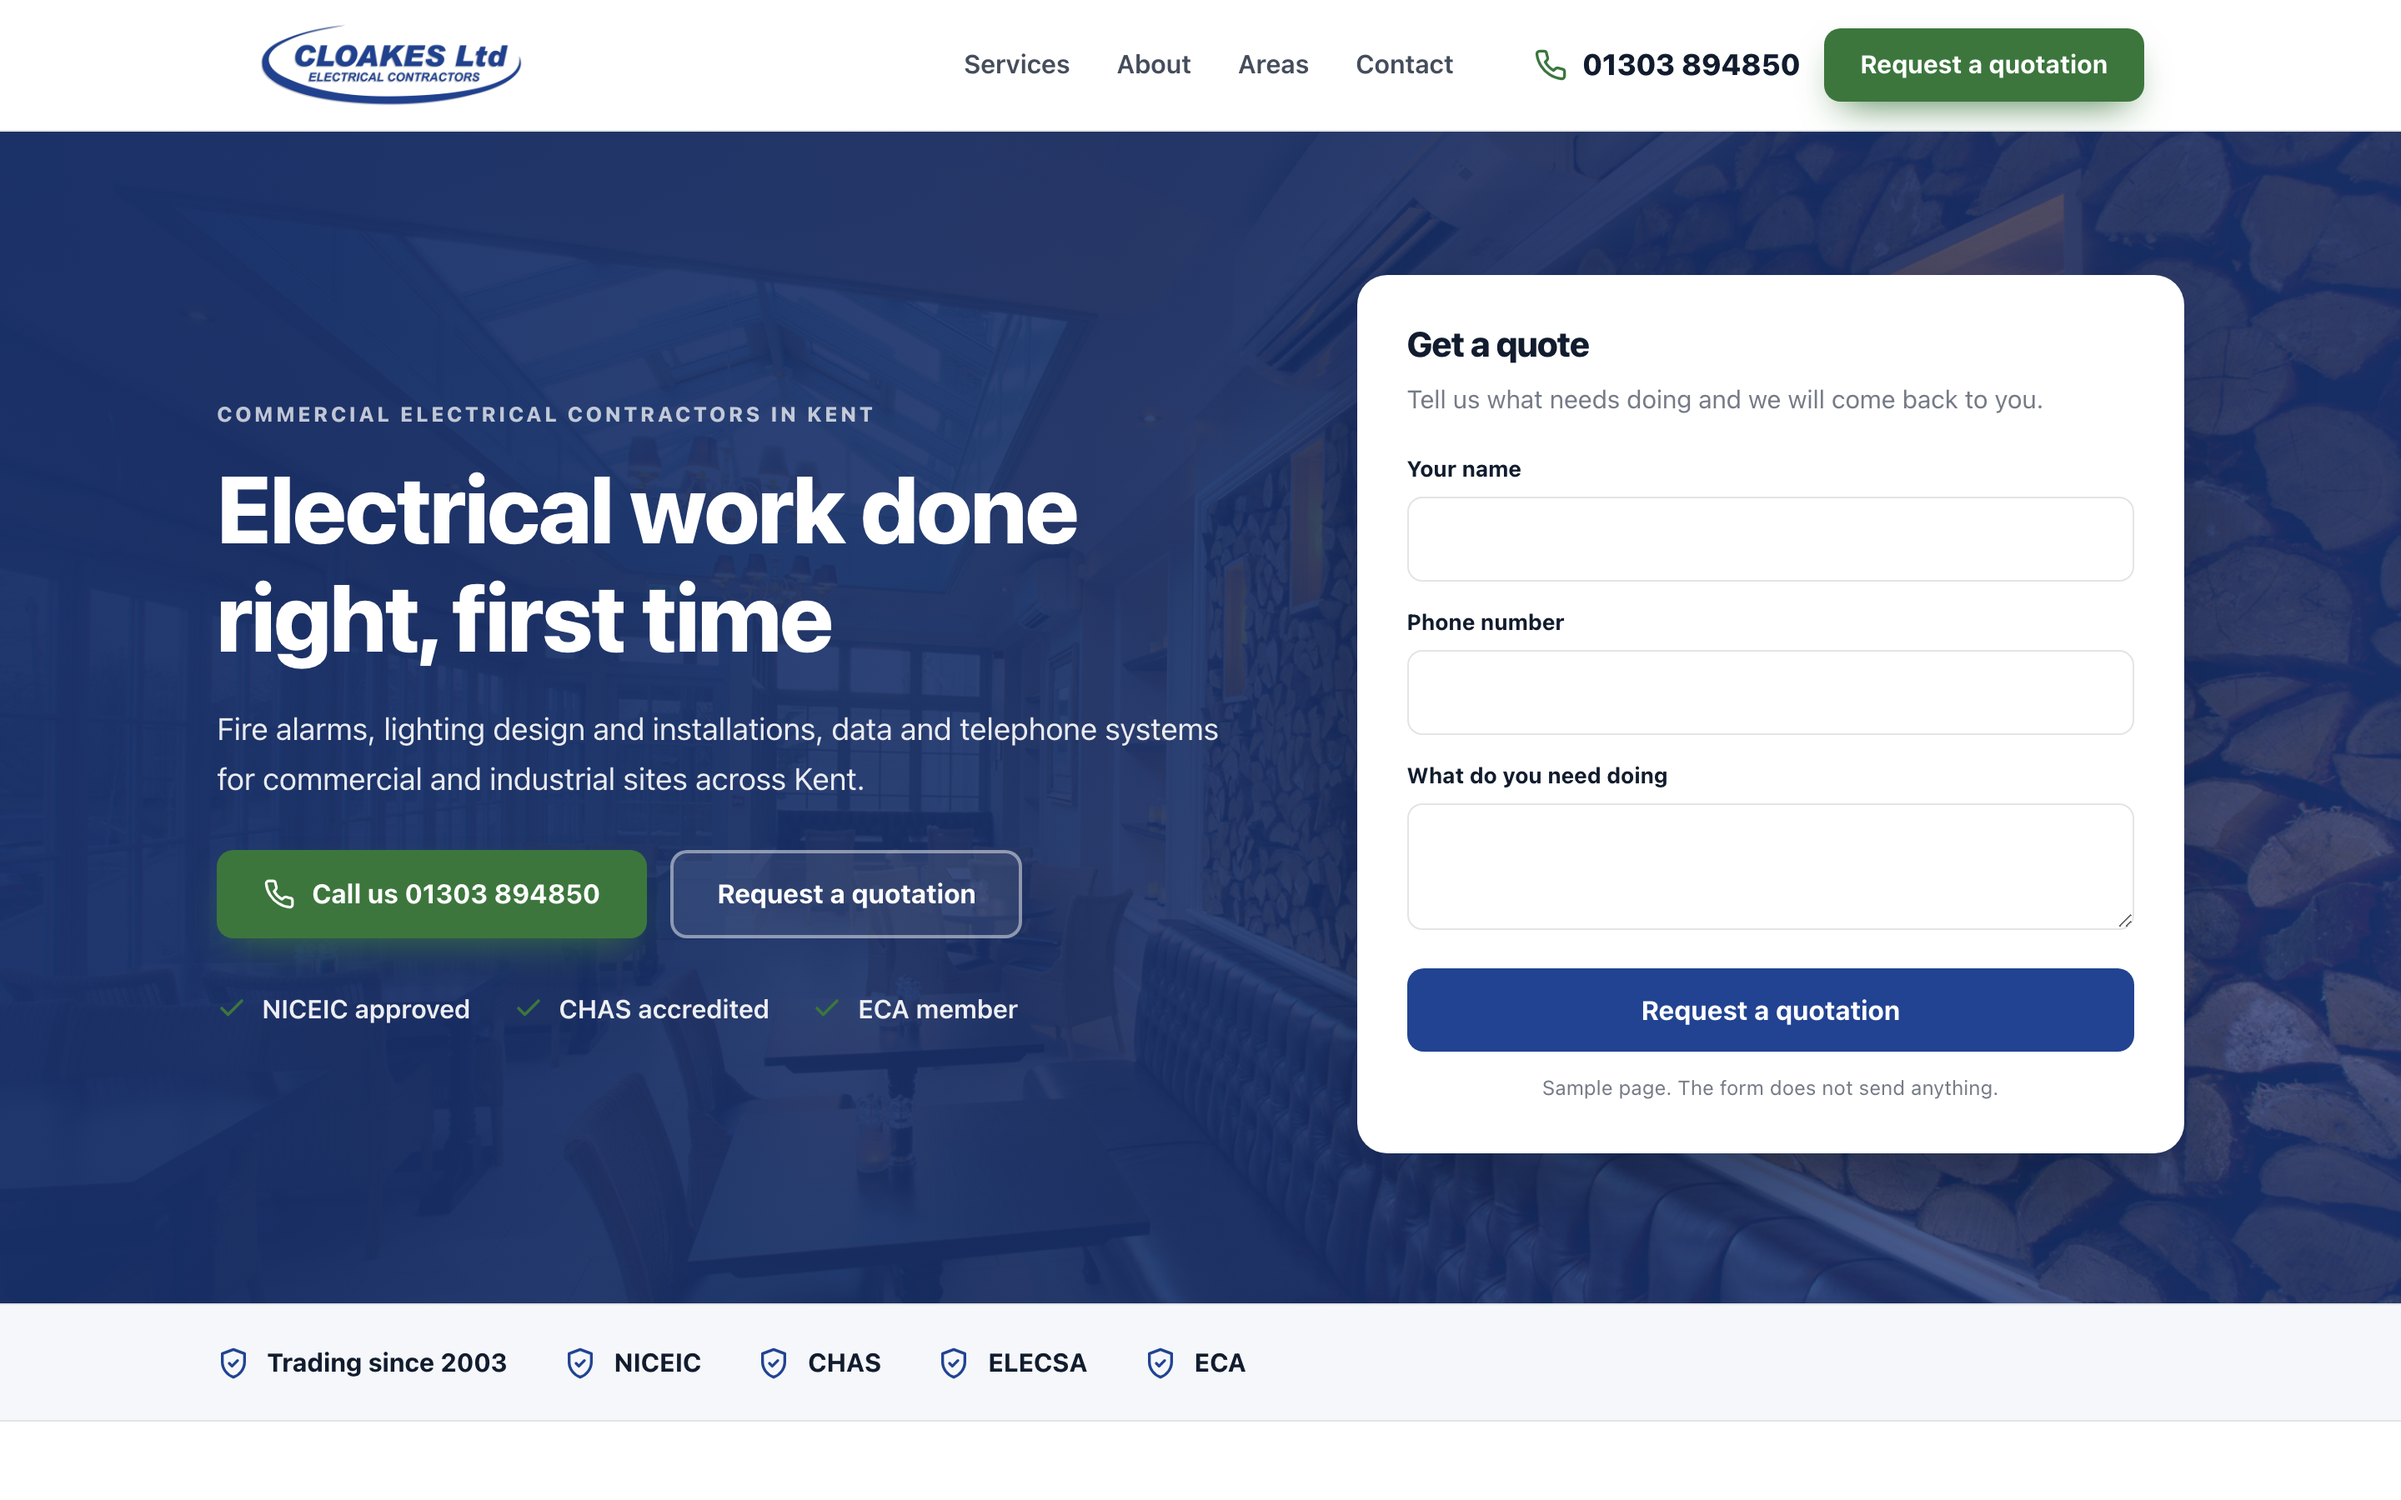
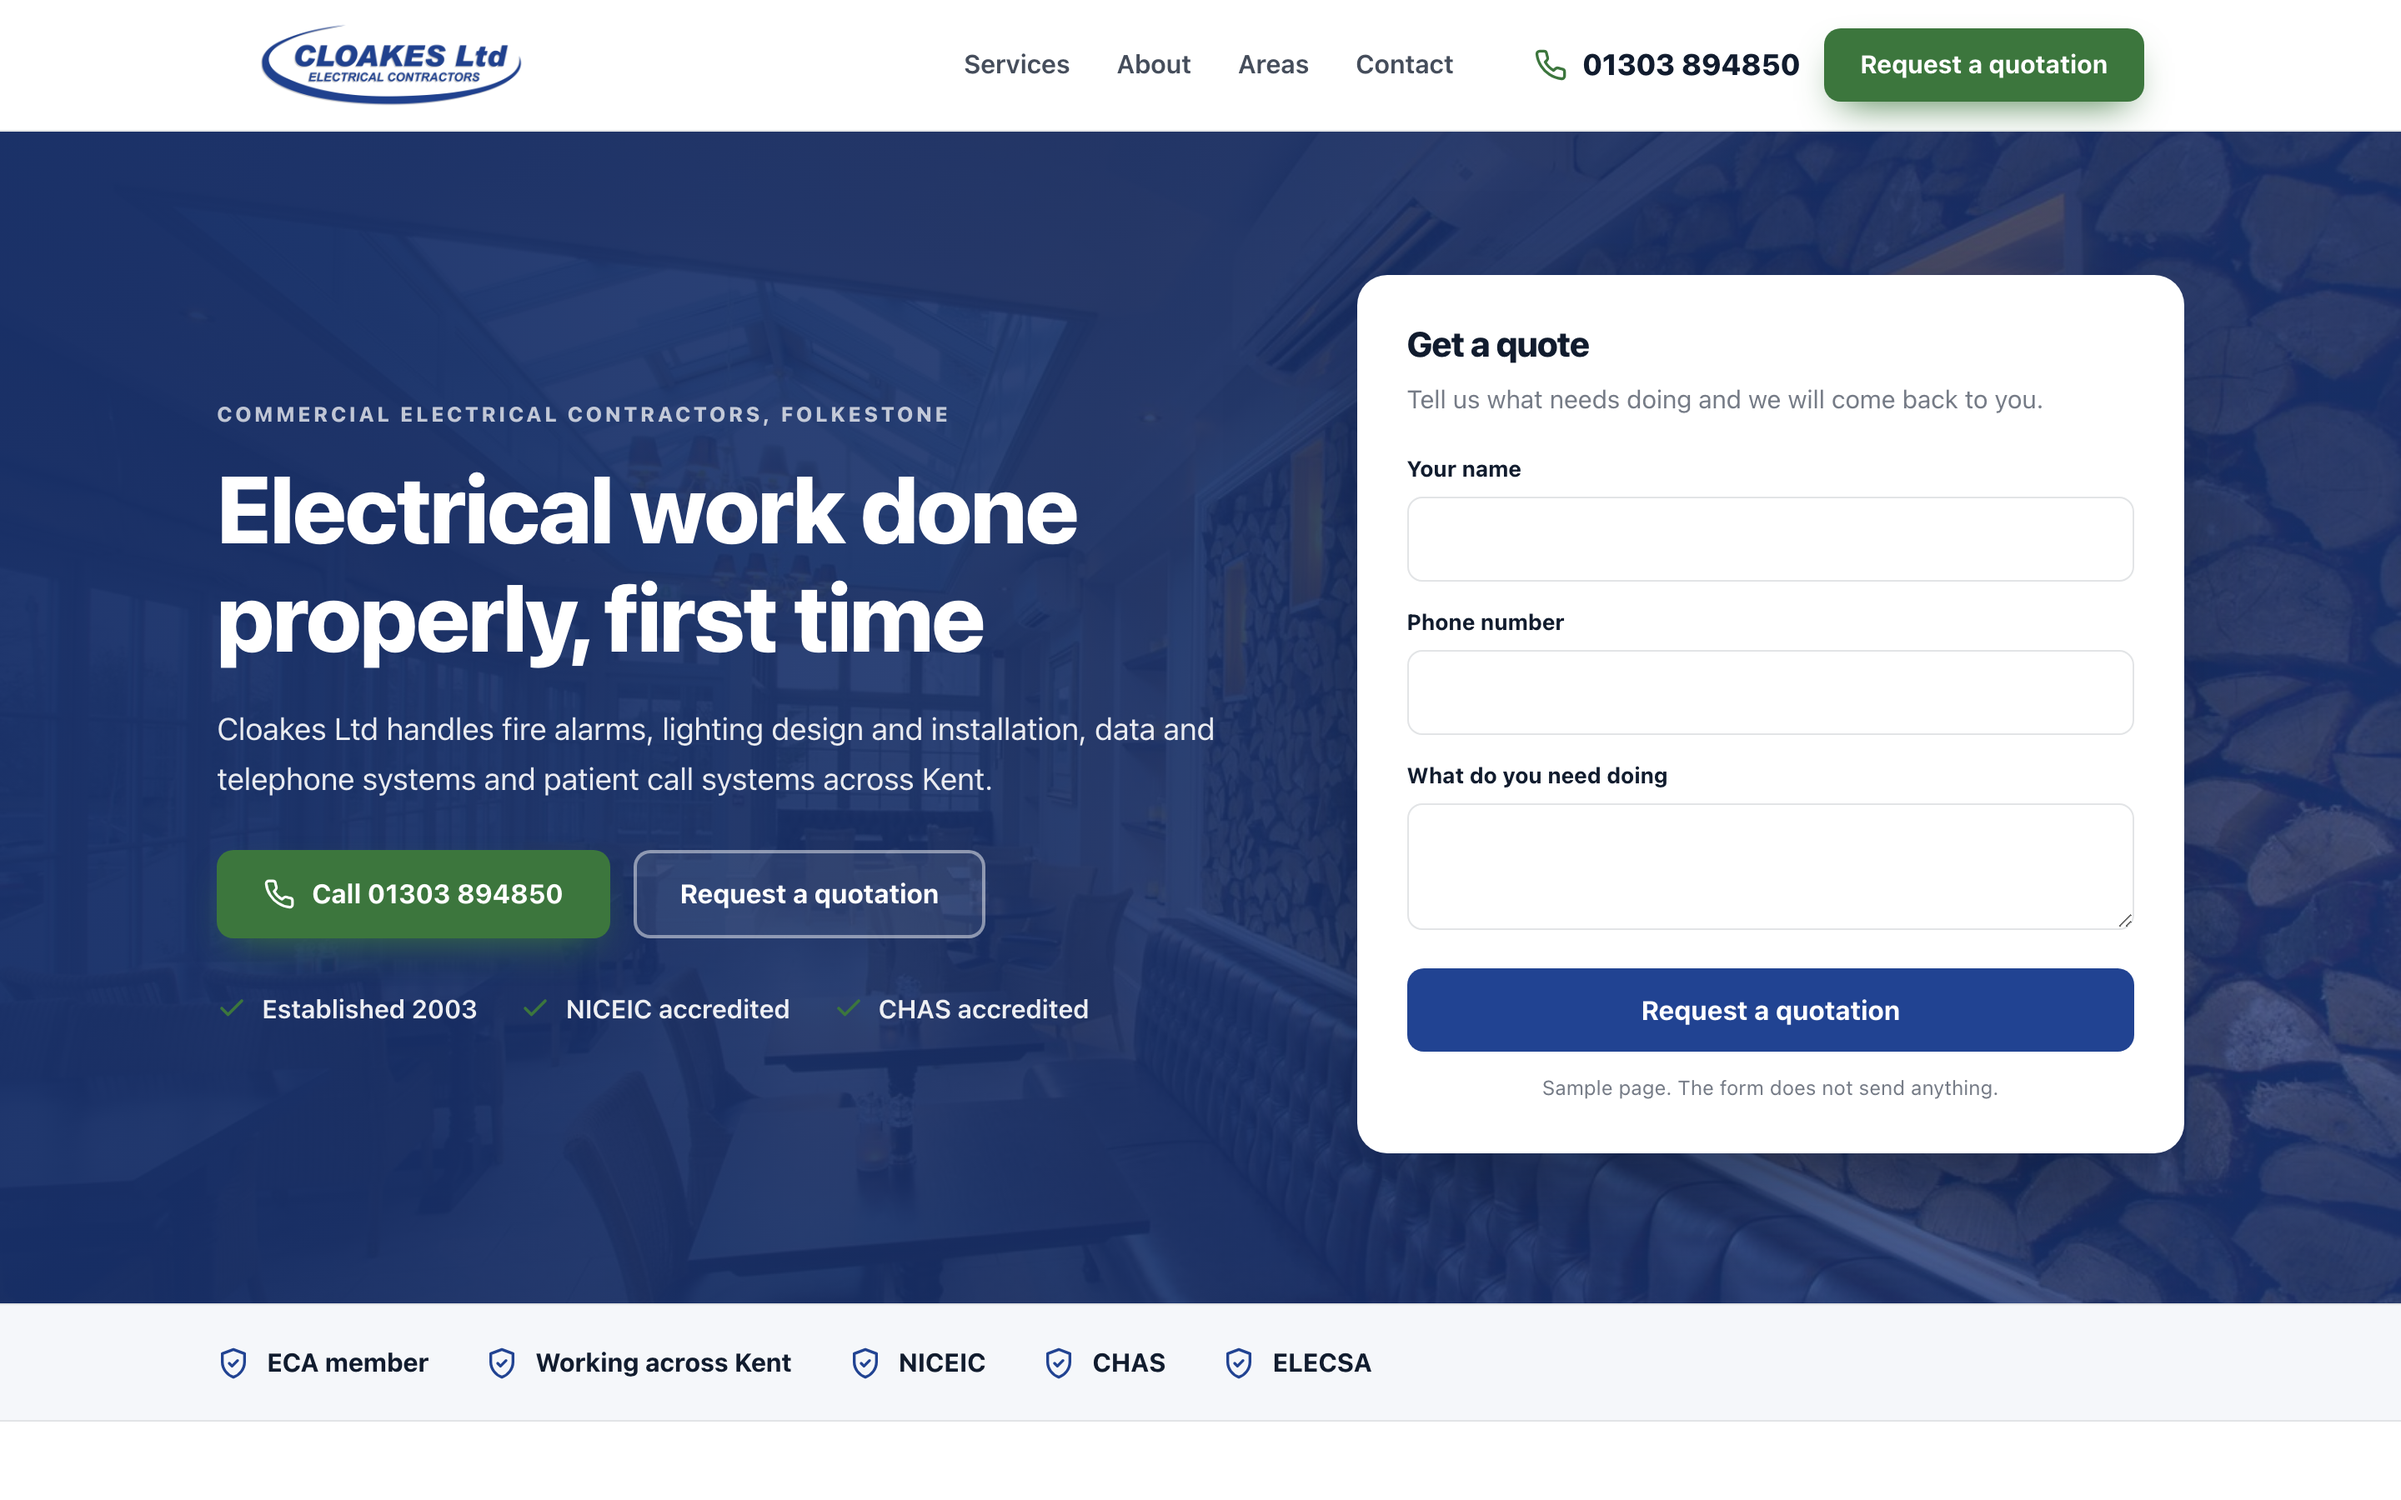
Sample homepage for Cloakes Ltd

diff --git a/docs/719c2d3453/index.html b/docs/719c2d3453/index.html
@@ -4,14 +4,15 @@
 <meta charset="utf-8">
 <meta name="viewport" content="width=device-width, initial-scale=1">
 <meta name="robots" content="noindex,nofollow">
+<meta name="aso-build" content="">
 <title>Cloakes Ltd sample homepage</title>
-<meta name="description" content="Fire alarms, lighting design and installations, data and telephone systems for commercial and industrial sites across Kent.">
+<meta name="description" content="Cloakes Ltd handles fire alarms, lighting design and installation, data and telephone systems and patient call systems across Kent.">
 <link rel="canonical" href="https://markygff.github.io/aso-mockups/719c2d3453/">
 <meta property="og:type" content="website">
 <meta property="og:title" content="Cloakes Ltd sample homepage">
-<meta property="og:description" content="Fire alarms, lighting design and installations, data and telephone systems for commercial and industrial sites across Kent.">
+<meta property="og:description" content="Cloakes Ltd handles fire alarms, lighting design and installation, data and telephone systems and patient call systems across Kent.">
 <meta property="og:url" content="https://markygff.github.io/aso-mockups/719c2d3453/">
-<meta property="og:image" content="https://cloakesltd.co.uk/wp-content/uploads/2020/01/Marine-Hotel-Tankerton-Whitstable-093.jpg"><style>
+<meta property="og:image" content="img/p09.jpg"><style>
 :root{
   --primary:#214392;
   --primary-dark:#183069;
@@ -52,7 +53,8 @@ p{margin:0}
 .nav{display:flex;gap:28px;margin-left:auto;font-weight:600;font-size:.97rem;color:var(--ink)}
 .nav span{opacity:.78}
 .header-cta{display:flex;align-items:center;gap:14px;margin-left:28px}
-.tel{display:flex;align-items:center;gap:9px;font-weight:800;font-size:1.1rem;color:var(--ink)}
+.tel{display:flex;align-items:center;gap:9px;font-weight:800;font-size:1.1rem;
+     color:var(--ink);text-decoration:none}
 .tel svg{width:20px;height:20px;color:var(--accent)}
 .header-cta .btn{padding:12px 20px;font-size:.95rem}
 
@@ -119,30 +121,30 @@ p{margin:0}
 <header class="header">
   <div class="wrap header-in">
     <div class="brand">
-<img src="https://cloakesltd.co.uk/wp-content/uploads/2020/01/cropped-Cloakes-Blue-Silver-Logo-PNG-Large-1.png" alt="Cloakes Ltd logo">    </div>
+<img src="img/logo.png" alt="Cloakes Ltd logo">    </div>
     <nav class="nav">
       <span>Services</span><span>About</span><span>Areas</span><span>Contact</span>
     </nav>
     <div class="header-cta">
-      <span class="tel"><svg viewBox="0 0 24 24" fill="none" stroke="currentColor" stroke-width="2" stroke-linecap="round" stroke-linejoin="round" aria-hidden="true"><path d="M22 16.9v3a2 2 0 0 1-2.2 2 19.8 19.8 0 0 1-8.6-3.1 19.5 19.5 0 0 1-6-6 19.8 19.8 0 0 1-3.1-8.7A2 2 0 0 1 4.1 2h3a2 2 0 0 1 2 1.7c.1 1 .4 1.9.7 2.8a2 2 0 0 1-.5 2.1L8.1 9.9a16 16 0 0 0 6 6l1.3-1.2a2 2 0 0 1 2.1-.5c.9.3 1.8.6 2.8.7a2 2 0 0 1 1.7 2z"/></svg><span>01303 894850</span></span>
+      <a class="tel" href="tel:+441303894850"><svg viewBox="0 0 24 24" fill="none" stroke="currentColor" stroke-width="2" stroke-linecap="round" stroke-linejoin="round" aria-hidden="true"><path d="M22 16.9v3a2 2 0 0 1-2.2 2 19.8 19.8 0 0 1-8.6-3.1 19.5 19.5 0 0 1-6-6 19.8 19.8 0 0 1-3.1-8.7A2 2 0 0 1 4.1 2h3a2 2 0 0 1 2 1.7c.1 1 .4 1.9.7 2.8a2 2 0 0 1-.5 2.1L8.1 9.9a16 16 0 0 0 6 6l1.3-1.2a2 2 0 0 1 2.1-.5c.9.3 1.8.6 2.8.7a2 2 0 0 1 1.7 2z"/></svg><span>01303 894850</span></a>
       <span class="btn btn-accent">Request a quotation</span>
     </div>
   </div>
 </header>
 
 <section class="hero">
-  <div class="hero-bg"><img src="https://cloakesltd.co.uk/wp-content/uploads/2020/01/Marine-Hotel-Tankerton-Whitstable-093.jpg" alt="Cloakes Ltd at work" width="1600" height="900"></div>
+  <div class="hero-bg"><img src="img/p09.jpg" alt="Cloakes Ltd at work" width="1600" height="900"></div>
   <div class="wrap hero-in">
     <div>
-      <p class="eyebrow">Commercial electrical contractors in Kent</p>
-      <h1>Electrical work done right, first time</h1>
-      <p class="hero-sub">Fire alarms, lighting design and installations, data and telephone systems for commercial and industrial sites across Kent.</p>
+      <p class="eyebrow">Commercial Electrical Contractors, Folkestone</p>
+      <h1>Electrical work done properly, first time</h1>
+      <p class="hero-sub">Cloakes Ltd handles fire alarms, lighting design and installation, data and telephone systems and patient call systems across Kent.</p>
       <div class="hero-actions">
-        <span class="btn btn-accent"><svg viewBox="0 0 24 24" fill="none" stroke="currentColor" stroke-width="2" stroke-linecap="round" stroke-linejoin="round" aria-hidden="true"><path d="M22 16.9v3a2 2 0 0 1-2.2 2 19.8 19.8 0 0 1-8.6-3.1 19.5 19.5 0 0 1-6-6 19.8 19.8 0 0 1-3.1-8.7A2 2 0 0 1 4.1 2h3a2 2 0 0 1 2 1.7c.1 1 .4 1.9.7 2.8a2 2 0 0 1-.5 2.1L8.1 9.9a16 16 0 0 0 6 6l1.3-1.2a2 2 0 0 1 2.1-.5c.9.3 1.8.6 2.8.7a2 2 0 0 1 1.7 2z"/></svg>Call us 01303 894850</span>
+        <span class="btn btn-accent"><svg viewBox="0 0 24 24" fill="none" stroke="currentColor" stroke-width="2" stroke-linecap="round" stroke-linejoin="round" aria-hidden="true"><path d="M22 16.9v3a2 2 0 0 1-2.2 2 19.8 19.8 0 0 1-8.6-3.1 19.5 19.5 0 0 1-6-6 19.8 19.8 0 0 1-3.1-8.7A2 2 0 0 1 4.1 2h3a2 2 0 0 1 2 1.7c.1 1 .4 1.9.7 2.8a2 2 0 0 1-.5 2.1L8.1 9.9a16 16 0 0 0 6 6l1.3-1.2a2 2 0 0 1 2.1-.5c.9.3 1.8.6 2.8.7a2 2 0 0 1 1.7 2z"/></svg>Call 01303 894850</span>
         <span class="btn btn-ghost">Request a quotation</span>
       </div>
       <ul class="hero-bullets">
-<li><svg viewBox="0 0 24 24" fill="none" stroke="currentColor" stroke-width="2.4" stroke-linecap="round" stroke-linejoin="round" aria-hidden="true"><path d="M20 6 9 17l-5-5"/></svg><span>NICEIC approved</span></li><li><svg viewBox="0 0 24 24" fill="none" stroke="currentColor" stroke-width="2.4" stroke-linecap="round" stroke-linejoin="round" aria-hidden="true"><path d="M20 6 9 17l-5-5"/></svg><span>CHAS accredited</span></li><li><svg viewBox="0 0 24 24" fill="none" stroke="currentColor" stroke-width="2.4" stroke-linecap="round" stroke-linejoin="round" aria-hidden="true"><path d="M20 6 9 17l-5-5"/></svg><span>ECA member</span></li>      </ul>
+<li><svg viewBox="0 0 24 24" fill="none" stroke="currentColor" stroke-width="2.4" stroke-linecap="round" stroke-linejoin="round" aria-hidden="true"><path d="M20 6 9 17l-5-5"/></svg><span>Established 2003</span></li><li><svg viewBox="0 0 24 24" fill="none" stroke="currentColor" stroke-width="2.4" stroke-linecap="round" stroke-linejoin="round" aria-hidden="true"><path d="M20 6 9 17l-5-5"/></svg><span>NICEIC accredited</span></li><li><svg viewBox="0 0 24 24" fill="none" stroke="currentColor" stroke-width="2.4" stroke-linecap="round" stroke-linejoin="round" aria-hidden="true"><path d="M20 6 9 17l-5-5"/></svg><span>CHAS accredited</span></li>      </ul>
     </div>
     <div class="quote-card">
       <h3>Get a quote</h3>
@@ -158,11 +160,11 @@ p{margin:0}
 
 <div class="strip">
   <div class="wrap strip-in">
-    <div class="strip-item"><svg viewBox="0 0 24 24" fill="none" stroke="currentColor" stroke-width="2" stroke-linecap="round" stroke-linejoin="round" aria-hidden="true"><path d="M12 2 4 5v6c0 5 3.4 9.4 8 11 4.6-1.6 8-6 8-11V5z"/><path d="m9 12 2 2 4-4"/></svg><span>Trading since 2003</span></div>
+    <div class="strip-item"><svg viewBox="0 0 24 24" fill="none" stroke="currentColor" stroke-width="2" stroke-linecap="round" stroke-linejoin="round" aria-hidden="true"><path d="M12 2 4 5v6c0 5 3.4 9.4 8 11 4.6-1.6 8-6 8-11V5z"/><path d="m9 12 2 2 4-4"/></svg><span>ECA member</span></div>
+    <div class="strip-item"><svg viewBox="0 0 24 24" fill="none" stroke="currentColor" stroke-width="2" stroke-linecap="round" stroke-linejoin="round" aria-hidden="true"><path d="M12 2 4 5v6c0 5 3.4 9.4 8 11 4.6-1.6 8-6 8-11V5z"/><path d="m9 12 2 2 4-4"/></svg><span>Working across Kent</span></div>
     <div class="strip-item"><svg viewBox="0 0 24 24" fill="none" stroke="currentColor" stroke-width="2" stroke-linecap="round" stroke-linejoin="round" aria-hidden="true"><path d="M12 2 4 5v6c0 5 3.4 9.4 8 11 4.6-1.6 8-6 8-11V5z"/><path d="m9 12 2 2 4-4"/></svg><span>NICEIC</span></div>
     <div class="strip-item"><svg viewBox="0 0 24 24" fill="none" stroke="currentColor" stroke-width="2" stroke-linecap="round" stroke-linejoin="round" aria-hidden="true"><path d="M12 2 4 5v6c0 5 3.4 9.4 8 11 4.6-1.6 8-6 8-11V5z"/><path d="m9 12 2 2 4-4"/></svg><span>CHAS</span></div>
     <div class="strip-item"><svg viewBox="0 0 24 24" fill="none" stroke="currentColor" stroke-width="2" stroke-linecap="round" stroke-linejoin="round" aria-hidden="true"><path d="M12 2 4 5v6c0 5 3.4 9.4 8 11 4.6-1.6 8-6 8-11V5z"/><path d="m9 12 2 2 4-4"/></svg><span>ELECSA</span></div>
-    <div class="strip-item"><svg viewBox="0 0 24 24" fill="none" stroke="currentColor" stroke-width="2" stroke-linecap="round" stroke-linejoin="round" aria-hidden="true"><path d="M12 2 4 5v6c0 5 3.4 9.4 8 11 4.6-1.6 8-6 8-11V5z"/><path d="m9 12 2 2 4-4"/></svg><span>ECA</span></div>
   </div>
 </div>
 
@@ -171,28 +173,28 @@ p{margin:0}
     <div class="services-head">
       <p class="eyebrow">What we do</p>
       <h2>Cloakes Ltd, Kent</h2>
-      <p>Fire alarms, lighting design and installations, data and telephone systems for commercial and industrial sites across Kent.</p>
+      <p>Cloakes Ltd handles fire alarms, lighting design and installation, data and telephone systems and patient call systems across Kent.</p>
     </div>
     <div class="grid">
       <article class="card">
         <div class="icon"><svg viewBox="0 0 24 24" fill="none" stroke="currentColor" stroke-width="2" stroke-linecap="round" stroke-linejoin="round" aria-hidden="true"><path d="M14.7 6.3a4 4 0 0 0 5.3 5.3l-8 8a3 3 0 0 1-4.2-4.2z"/><path d="m14.7 6.3 3-3"/></svg></div>
         <h3>Fire Alarms</h3>
-        <p>Fire alarm systems fitted and maintained for commercial premises.</p>
+        <p>Fire alarm systems designed, installed and tested properly.</p>
       </article>
       <article class="card">
         <div class="icon"><svg viewBox="0 0 24 24" fill="none" stroke="currentColor" stroke-width="2" stroke-linecap="round" stroke-linejoin="round" aria-hidden="true"><path d="M13 2 4 14h7l-1 8 9-12h-7z"/></svg></div>
         <h3>Lighting Design</h3>
-        <p>Full lighting design service from first concept through to completion.</p>
+        <p>We design lighting schemes from first concept through to completion.</p>
       </article>
       <article class="card">
         <div class="icon"><svg viewBox="0 0 24 24" fill="none" stroke="currentColor" stroke-width="2" stroke-linecap="round" stroke-linejoin="round" aria-hidden="true"><path d="M3 10.5 12 3l9 7.5"/><path d="M5 9.5V21h14V9.5"/><path d="M10 21v-6h4v6"/></svg></div>
         <h3>Emergency Lighting</h3>
-        <p>Emergency lighting installed to keep your building compliant.</p>
+        <p>Emergency lighting installed and kept compliant.</p>
       </article>
       <article class="card">
         <div class="icon"><svg viewBox="0 0 24 24" fill="none" stroke="currentColor" stroke-width="2" stroke-linecap="round" stroke-linejoin="round" aria-hidden="true"><path d="M4 20 15 9"/><path d="m14 4 6 6-3 3-6-6z"/><path d="m3 15 6 6"/></svg></div>
-        <h3>Data Systems</h3>
-        <p>Data cabling and systems installed for offices and commercial sites.</p>
+        <h3>Patient Call Systems</h3>
+        <p>Patient call systems fitted for healthcare settings.</p>
       </article>
     </div>
   </div>
